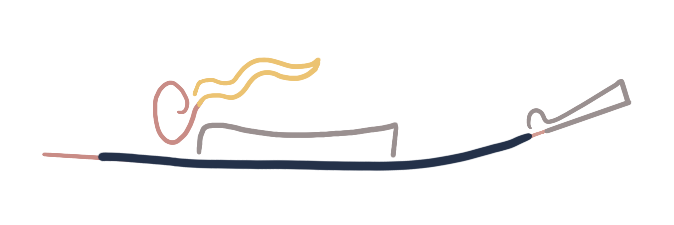
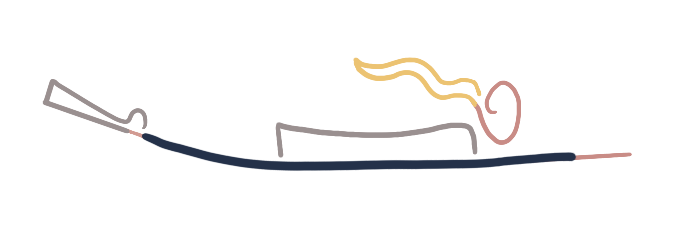
scuba box and freediver box added

Changed region(s): [[0.0623, 0.2489, 0.9347, 0.7778]]

diff --git a/index.html b/index.html
@@ -56,6 +56,12 @@
             <p class="40">40</p>
             <div class="diver-wrapper">
                 <div class="diver">
+                    <div class="textbox">
+                        <h2>Scuba Divers</h2>
+                        <p>Scuba divers carry their own source of breathing gas, usually compressed air, a blend of
+                            nitrogen and oxygen. The recreational limit for scuba diving is 40m. After 40m, divers can
+                            use a gas mix blend with oxygen, nitrogen and helium.</p>
+                    </div>
                     <img alt="diver png" src="imgs/diver.png">
                 </div>
             </div>
@@ -82,6 +88,11 @@
             <p class="120">120</p>
             <div class="freediver-wrapper">
                 <div class="freediver">
+                    <div class="textbox">
+                        <h2>Freedivers</h2>
+                        <p>Unlike scuba diving, freedivers have no external equipment, and simply rely on breath
+                            holding. There are different classes with freediving comptetions, </p>
+                    </div>
                     <img alt="freediver png" src="imgs/freediver.png">
                 </div>
             </div>

diff --git a/style.css b/style.css
@@ -215,12 +215,32 @@ a {
   float: right;
   margin-right: 5vw;
 }
-
+.textbox {
+  padding: 2vw;
+  padding-bottom: unset;
+  height: auto;
+  width: 20vw;
+  text-align: left;
+  /* border: white solid 2px; */
+}
+.textbox h2 {
+  font-family: loos-wide, sans-serif;
+  font-weight: 700;
+  font-style: normal;
+  font-size: 1.5rem;
+  text-align: center;
+}
+.textbox p {
+  font-family: loos-wide, sans-serif;
+  font-weight: 400;
+  font-style: normal;
+  font-size: 1rem;
+  line-height: 1.5rem;
+}
 /* DIVER */
 .diver-wrapper {
   width: max-content;
   position: relative;
-  transform: scaleX(-1);
 }
 
 .ani_diver {
@@ -231,10 +251,10 @@ a {
 
 @keyframes diver {
   0% {
-    transform: translatex(0vw);
+    transform: translatex(-10vw);
   }
   100% {
-    transform: translateX(-20vw);
+    transform: translateX(20vw);
   }
 }
 
